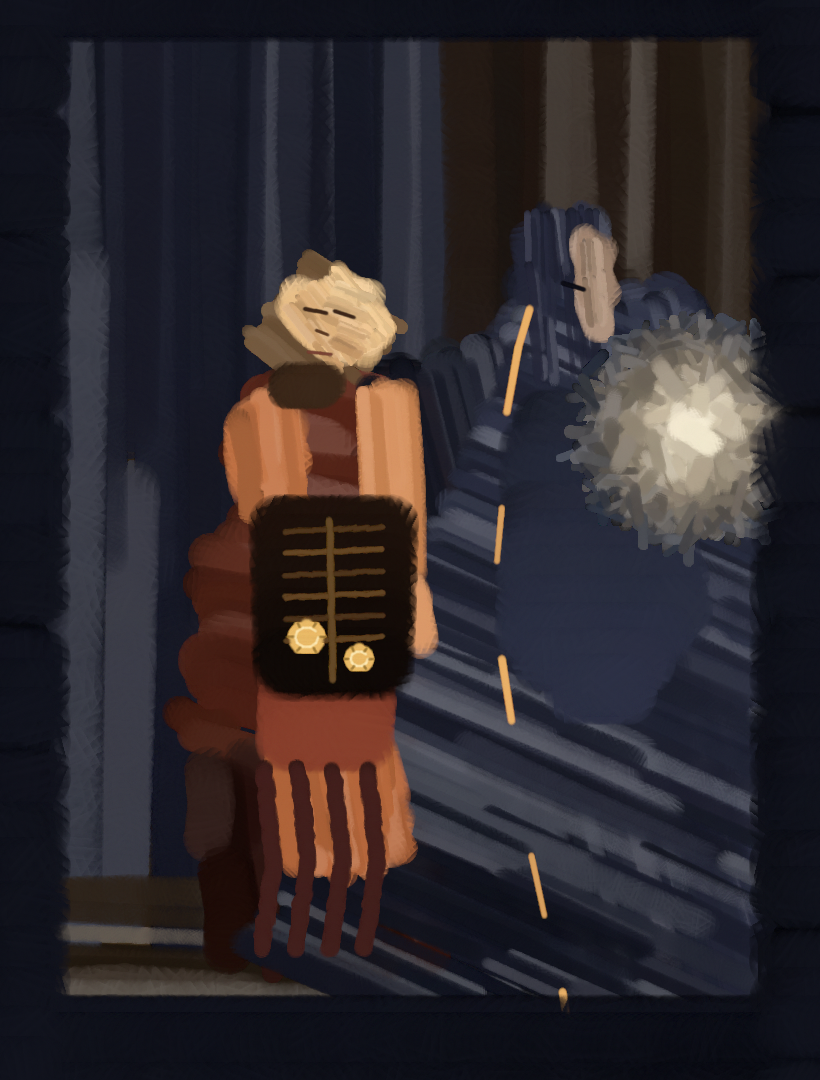
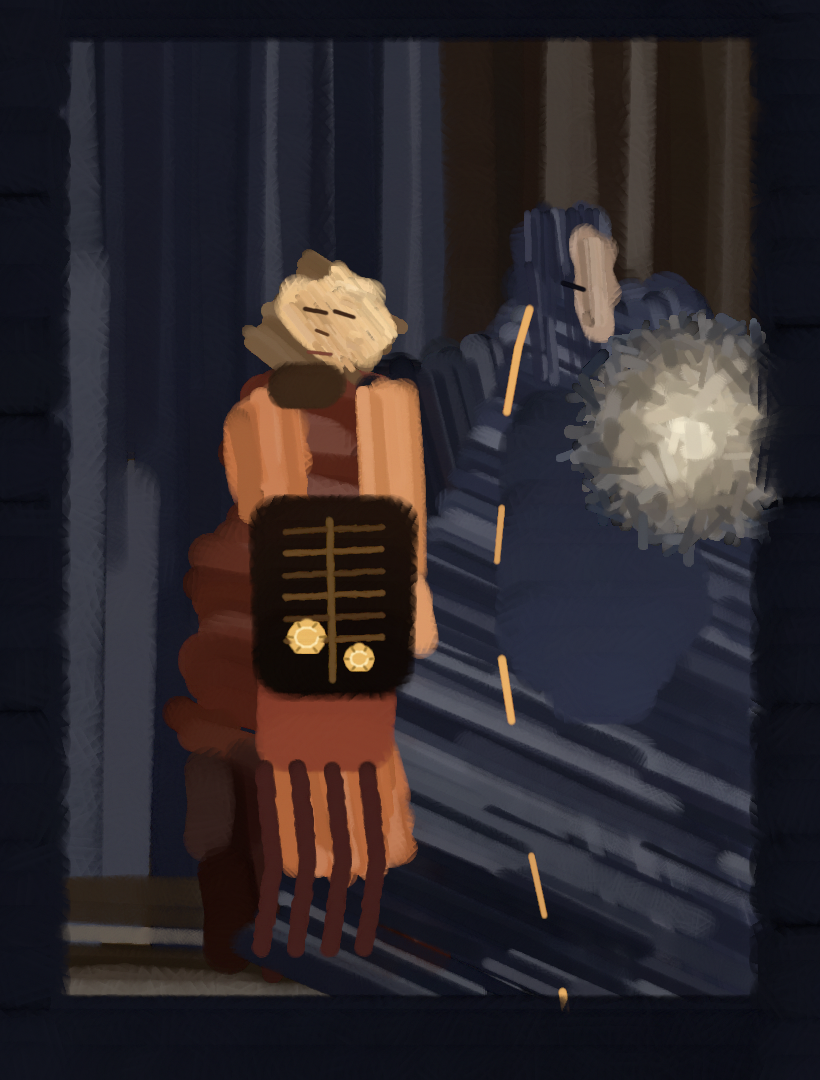
art(samples): turn the head's light plane into a crescent, and find that the silhouette is the real limit
The previous round established that brush width, jitter and gradients can only change what happens inside a
plane, not the shape of the plane, so this round changed only the shape. The head's light plane was a wedge, which
reads as a pale stone, and is now a narrow crescent about ten pixels wide whose outer arc follows forehead, brow,
cheek and chin and whose inner arc returns, with no more than two small highlights outside it, since any more
turns it back into a blob.

A draft render confirms the direction: the head's light is now a narrow band rather than a wedge. The draft also
exposed something more fundamental, which is the round's real finding. The dark silhouette of the head is itself a
blob, because the head is only a bulge of the body polygon and has no profile of its own, so no reshaping of the
light can make it read as a face. The fix is to give the head its own profile polygon, drawn the same way as the
existing profile helper but at the head's own position, which is a larger change to the painting and belongs in a
round of its own.

The full render shows the head still reading as a pale mass with two dark marks and a lit right edge, so the
crescent is directionally right but visually neutral, exactly as the diagnosis predicted. It is shipped anyway to
keep the score and its asset in step, with no regression, and the crescent should start to pay off once the
silhouette is fixed.
[…]

Changed region(s): [[0.7317, 0.3361, 0.9451, 0.4889], [0.3963, 0.275, 0.4573, 0.3361], [0.7927, 0.3361, 0.8232, 0.3667]]

diff --git a/docs/design/implementation-notes.md b/docs/design/implementation-notes.md
@@ -5335,3 +5335,27 @@ medium: { id: "oil", version: 2, abi: 2, maxDab: 64,
 **但它仍读成"一块浅色楔形石"** ✗ 而不是侧脸 ✓ ⇒ **下一轮是形状问题** ✓：
 受光面应当是一道**贴着侧脸的月牙** ✓（跟着额→眉→鼻→唇→颧的转折走 ✓），而不是一块团 ✓。
 **这一步不要再动纹理** ✗（本轮已证明：笔宽、抖动、渐变都只能改"面内" ✓，改不了"面的形状" ✗）。
+
+### 头部受光面从"楔形团"改成**贴着轮廓的月牙** ✓ —— 并因此暴露出**更根本的问题** ✗
+
+**改法** ✓（上一轮已证明：笔宽/抖动/渐变只能改"面内" ✗，改不了"面的形状" ✓ ⇒ 这一轮只动形状 ✓）：
+外弧沿**额 → 眉弓 → 颧 → 颏** ✓、内弧收回来 ✓ ⇒ 约 **0.012W ≈ 10px** 宽的一道**窄亮带** ✓；
+月牙之外**只留两点小高光** ✓（再多就又是一团 ✗）。
+
+**draft 渲染的判断** ✓：头部现在是一道**窄亮带** ✓（不再是楔形团 ✓）⇒ **方向正确** ✓。
+
+**但它同时暴露了更根本的问题** ✗（这才是本轮最有价值的收获 ✓）：
+**头部的暗部剪影本身就是一个团** ✓ —— 头只是**身体多边形上鼓出来的一块** ✗，没有自己的侧脸轮廓 ✓
+⇒ **无论怎么改受光面，它都读不成侧脸** ✗。⇒ **真正的修法** ✓：给头一个**自己的侧脸多边形** ✓
+（额 → 眉 → 鼻 → 唇 → 颏 → 颈 ✓，和 `profileish` 同一套画法 ✓，只是画在**头**的位置上 ✓）。
+这是一次**更大的**画法改动 ✓（动的是剪影 ✓，不是明暗 ✓），留给下一轮单独做 ✓。
+
+**一条可复用的方法规则** ✓（本轮验证 ✓）：
+* **形状问题用 draft 看** ✓ —— `--draft N` 只拉开笔距 ✓，**形状在粗稿里依然成立** ✓；
+* **纹理/笔触问题必须用全尺寸看** ✗ —— 粗稿会把纹理糊掉 ✓（我自己在 `--scale` 的注释里就写过 ✗）。
+⇒ 这样每次判断只要**几分钟到十几分钟** ✓，而不是每次都等全尺寸 ✗。
+
+**全尺寸结果（2310 笔 / 1393 秒）** ✓：头部仍是"浅色块 + 眉/嘴两道暗记 + 右侧一道亮边" ✗
+⇒ **月牙没有带来可见改善** ✗ —— 与本轮的诊断一致 ✓：瓶颈在**剪影** ✓，不在受光面 ✓。
+**发这一版** ✓（方向正确 ✓、无回归 ✓，且保持"画谱与资产同步" ✓）；
+**下一轮直接改剪影** ✓（给头自己的侧脸多边形 ✓），那时这道月牙才会开始起作用 ✓。
